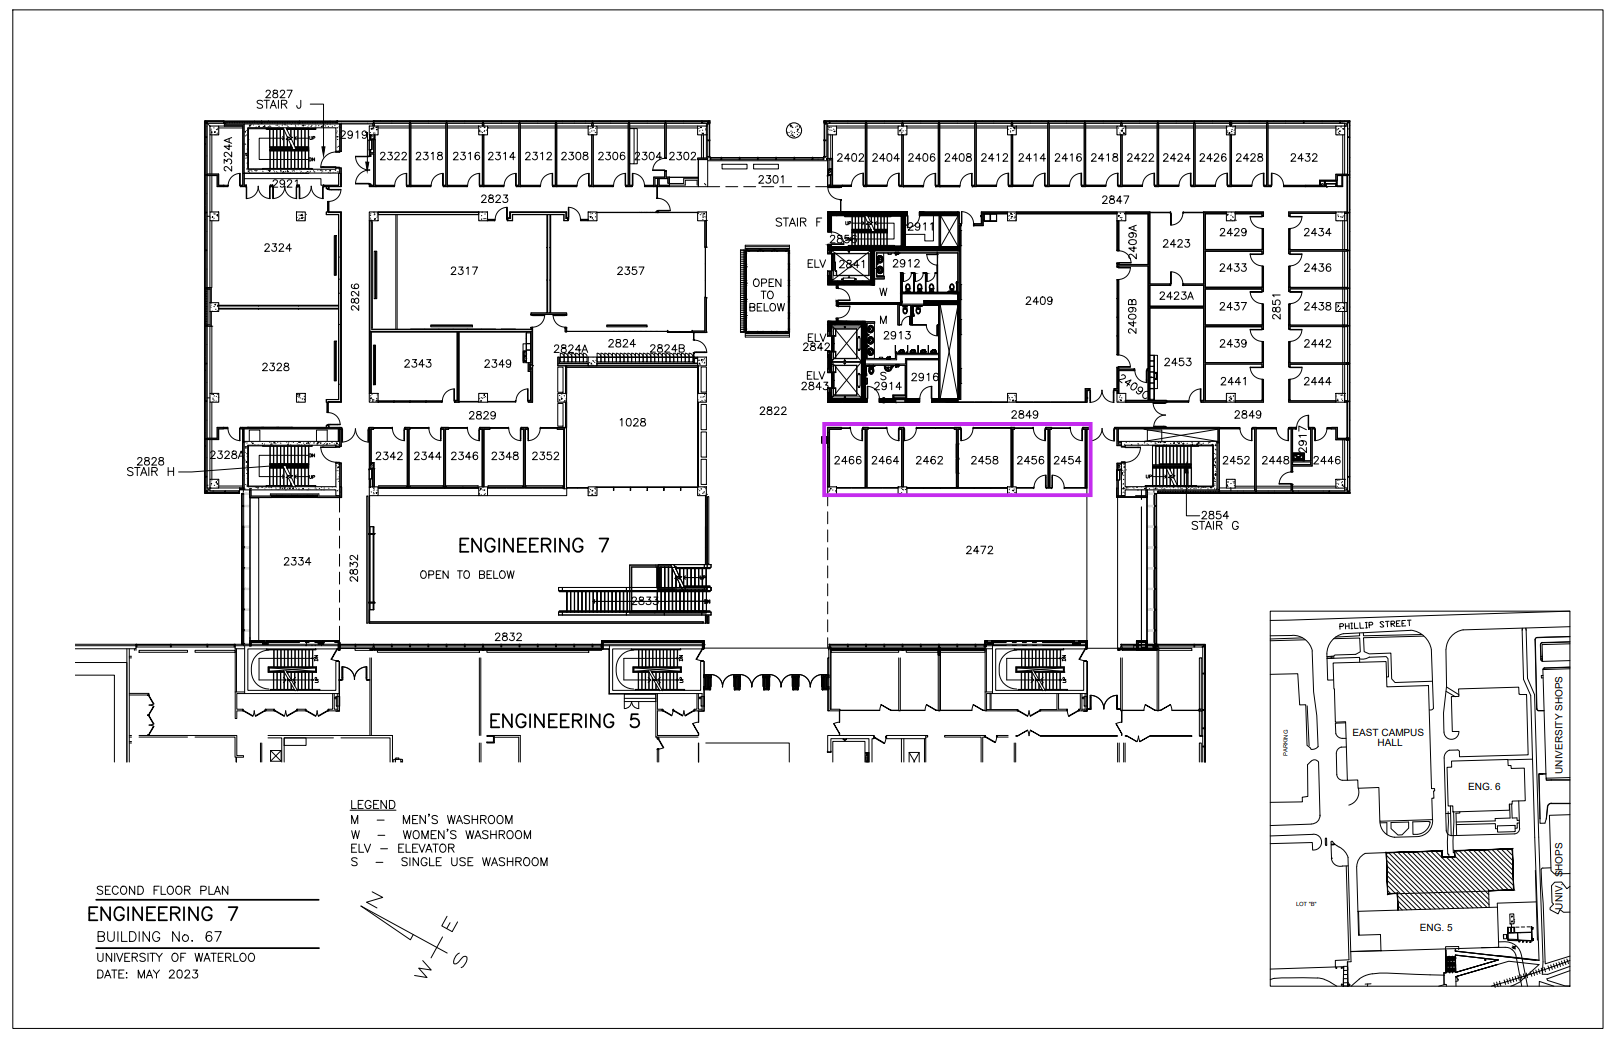
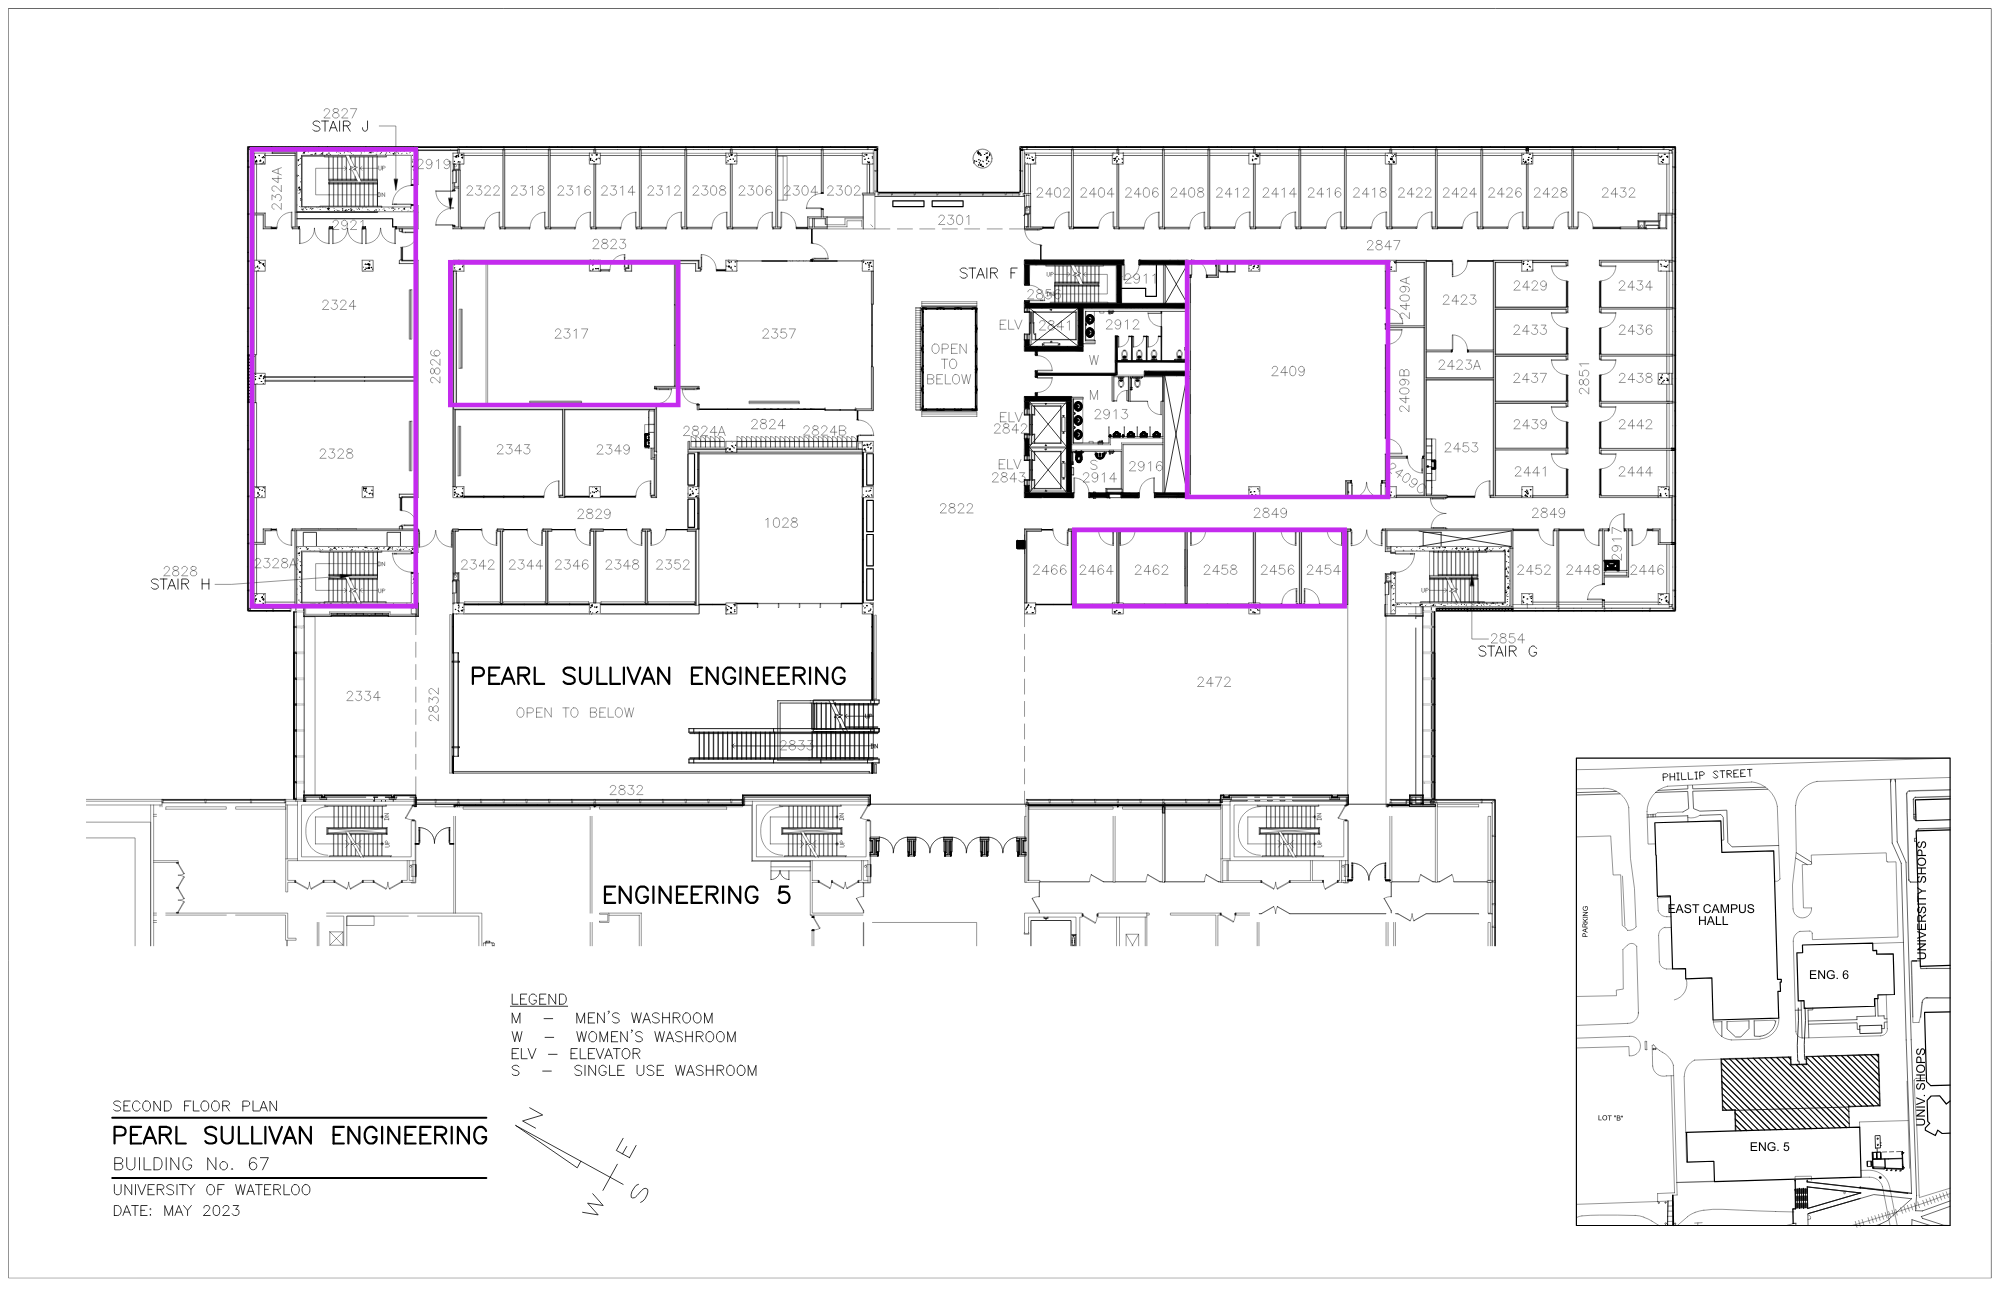
Added more features to whereis

diff --git a/src/commands/whereis.ts b/src/commands/whereis.ts
@@ -9,16 +9,62 @@ E.g:
 */
 
 const locationReplies: Record<string, string> = {
-  "openingCeremony": "The Opening Ceremony is located in the IDEAS Clinic in E7.",
-  "judgingRooms": "The Judging Rooms are located in Rooms 2454 - 2466 in E7.",
-  "organizerRoom": "The organizer room is located in Room 2357 in E7."
+  // General Events
+  "hackerCheckIn": "Hacker Check-In will be held in the 1829 open space (Main Area) of PSE/E7",
+  "washrooms": "Washrooms are located in the same area of each floor.",
+  "openingCeremony": "The Opening Ceremony is located in the IDEAS Clinic (Room 1427) in PSE/E7.",
+  "closingCeremony": "The Opening Ceremony is located in the IDEAS Clinic (Room 1427) in PSE/E7.",
+  "judgingRooms": "The Judging Rooms are located in Rooms 2454 - 2466 in PSE/E7.",
+  "organizerRoom": "The organizer room is located in Room 2357 in PSE/E7.",
+  "sleepingRooms": "The sleeping rooms are located in Rooms 2324 and 2328 in PSE/E7. Room 2324 will be an all-gender sleeping room, and Room 2328 will be designed to females.",
+  "foodArea": "The food area for all hacker meals is located in the 2472 open space (Dining Area) of PSE/E7.",
+  "sponsorsArea": "The sponsors area is located in the 2822 open space of PSE/E7.",
+
+  // Activities
+  "networkingAndTeamBuilding": "The Networking and Team-Building activity will be held in the IDEAS Clinic (Room 1427) in PSE/E7",
+  "gameDevelopment": "The Game Development workshop will be held in Activity Space B (Room 2328) in PSE/E7",
+  "CLIAndTerminal": "The CLIs & Effective Terminal Use workshop will be held in Activity Space A (Room 2324) in PSE/E7",
+  "spicyNoodleChallenge": "The Spicy Noodle Challenge activity will be held in the 2472 open space (Dining Area) of PSE/E7",
+  "cupStacking": "The Cup Stacking activity will be held in the 1829 open space (Main Area) of PSE/E7",
+  "musicalChairs": "The Musical Chairs activity will be held in Activity Space A (Room 2324) in PSE/E7",
+  "customKeychainMaking": "The Custom Keychain Making activity will be held in Activity Space B (Room 2328) in PSE/E7",
+  "trivia": "The Trivia activity will be held in Activity Space A (Room 2324) in PSE/E7",
+  "pingPongTourney": "The Ping Pong Tournament activity will be held at the 2nd Floor Ping Pong Table (Open Space 2334) PSE/E7",
+  "karaoke": "The Karaoke activity will be held in the IDEAS Clinic (Room 1427) in PSE/E7",
+  "videoGameTourney": "The Video Game Tournament activity will be held in Activity Space A (Room 2324) in PSE/E7",
+  "poker": "The Poker activity will be held in Activity Space B (Room 2328) in PSE/E7",
+  "photobooth": "The Photobooth activity will be held in the 1829 open space (Main Area) of PSE/E7",
+
 };
 
 const imagePaths: Record<string, string> = {
-  "openingCeremony": path.join(__dirname, "../assets/openingceremony.png"),
+  // General Events
+  "hackerCheckIn": path.join(__dirname, "../assets/mainArea.png"),
+  "washrooms": path.join(__dirname, "../assets/washrooms.png"),
+  "openingCeremony": path.join(__dirname, "../assets/ideasClinic.png"),
+  "closingCeremony": path.join(__dirname, "../assets/ideasClinic.png"),
   "judgingRooms": path.join(__dirname, "../assets/judgingrooms.png"),
-  "organizerRoom": path.join(__dirname, "../assets/organizerroom.png")
+  "organizerRoom": path.join(__dirname, "../assets/organizerroom.png"),
+  "sleepingRooms": path.join(__dirname, "../assets/sleepingRooms.png"),
+  "foodArea": path.join(__dirname, "../assets/diningArea.png"),
+  "sponsorsArea": path.join(__dirname, "../assets/sponsorsArea.png"),
+
+  // Activities
+  "networkingAndTeamBuilding": path.join(__dirname, "../assets/ideasClinic.png"),
+  "gameDevelopment": path.join(__dirname, "../assets/activitySpaceB.png"),
+  "CLIAndTerminal": path.join(__dirname, "../assets/activitySpaceA.png"),
+  "spicyNoodleChallenge": path.join(__dirname, "../assets/diningArea.png"),
+  "cupStacking": path.join(__dirname, "../assets/mainArea.png"),
+  "musicalChairs": path.join(__dirname, "../assets/activitySpaceA.png"),
+  "customKeychainMaking": path.join(__dirname, "../assets/activitySpaceB.png"),
+  "trivia": path.join(__dirname, "../assets/activitySpaceA.png"),
+  "pingPongTourney": path.join(__dirname, "../assets/pingPong.png"),
+  "karaoke": path.join(__dirname, "../assets/ideasClinic.png"),
+  "videoGameTourney": path.join(__dirname, "../assets/activitySpaceA.png"),
+  "poker": path.join(__dirname, "../assets/activitySpaceB.png"),
+  "photobooth": path.join(__dirname, "../assets/mainArea.png"),
 };
+
 
 export = {
   data: new Discord.SlashCommandBuilder()
@@ -29,9 +75,28 @@ export = {
       .setDescription("Choose a location")
       .setRequired(true)
       .addChoices(
-        {name: "Opening Ceremony", value: "openingCeremony"},
-        {name: "Judging Rooms", value: "judgingRooms"},
-        {name: "Organizer Room", value: "organizerRoom"}
+        {name: "Hacker Check-In", value: "hackerCheckIn"},
+        // {name: "Washrooms", value: "washrooms"},
+        // {name: "Opening Ceremony", value: "openingCeremony"},
+        // {name: "Closing Ceremony", value: "closingCeremony"},
+        // {name: "Judging Rooms", value: "judgingRooms"},
+        // {name: "Organizer Room", value: "organizerRoom"},
+        // {name: "Sleeping Rooms", value: "sleepingRooms"},
+        // {name: "Food Area", value: "foodArea"},
+        // {name: "Sponsors Area", value: "sponsorsArea"},
+        // {name: "Networking and Team-Building", value: "networkingAndTeamBuilding"},
+        // {name: "Workshop: Game Development", value: "gameDevelopment"},
+        // {name: "Workshop: CLIs & Effective Terminal Use", value: "CLIAndTerminal"},
+        // {name: "Spicy Noodle Challenge", value: "spicyNoodleChallenge"},
+        // {name: "Cup Stacking", value: "cupStacking"},
+        // {name: "Musical Chairs", value: "musicalChairs"},
+        // {name: "Custom Keychain Making", value: "customKeychainMaking"},
+        // {name: "Trivia", value: "trivia"},
+        // {name: "Ping Pong Tournament", value: "pingPongTourney"},
+        // {name: "Karaoke", value: "karaoke"},
+        // {name: "Video Game Tournament", value: "videoGameTourney"},
+        // {name: "Poker", value: "poker"},
+        // {name: "Photobooth", value: "photobooth"}
       )),
   
     async execute(interaction: Discord.ChatInputCommandInteraction) {